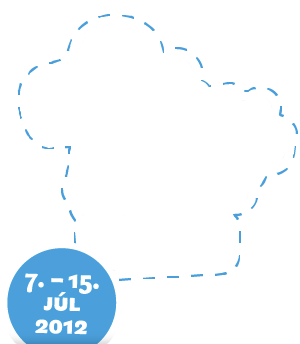
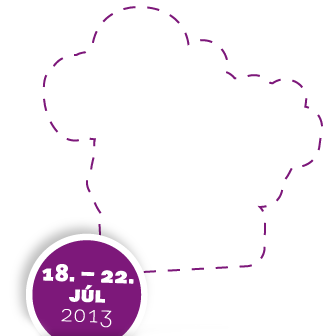
Added images from new theme

diff --git a/wp-content/themes/mazaltov-2013/style.css b/wp-content/themes/mazaltov-2013/style.css
@@ -49,7 +49,7 @@ body {
             float: left;
             font-size: 2em;
             height: 250px;
-            margin: -20px 0 0 28px;
+            margin: -20px 0 0 53px;
             width: 260px;
             text-indent: -9999px;
         }
